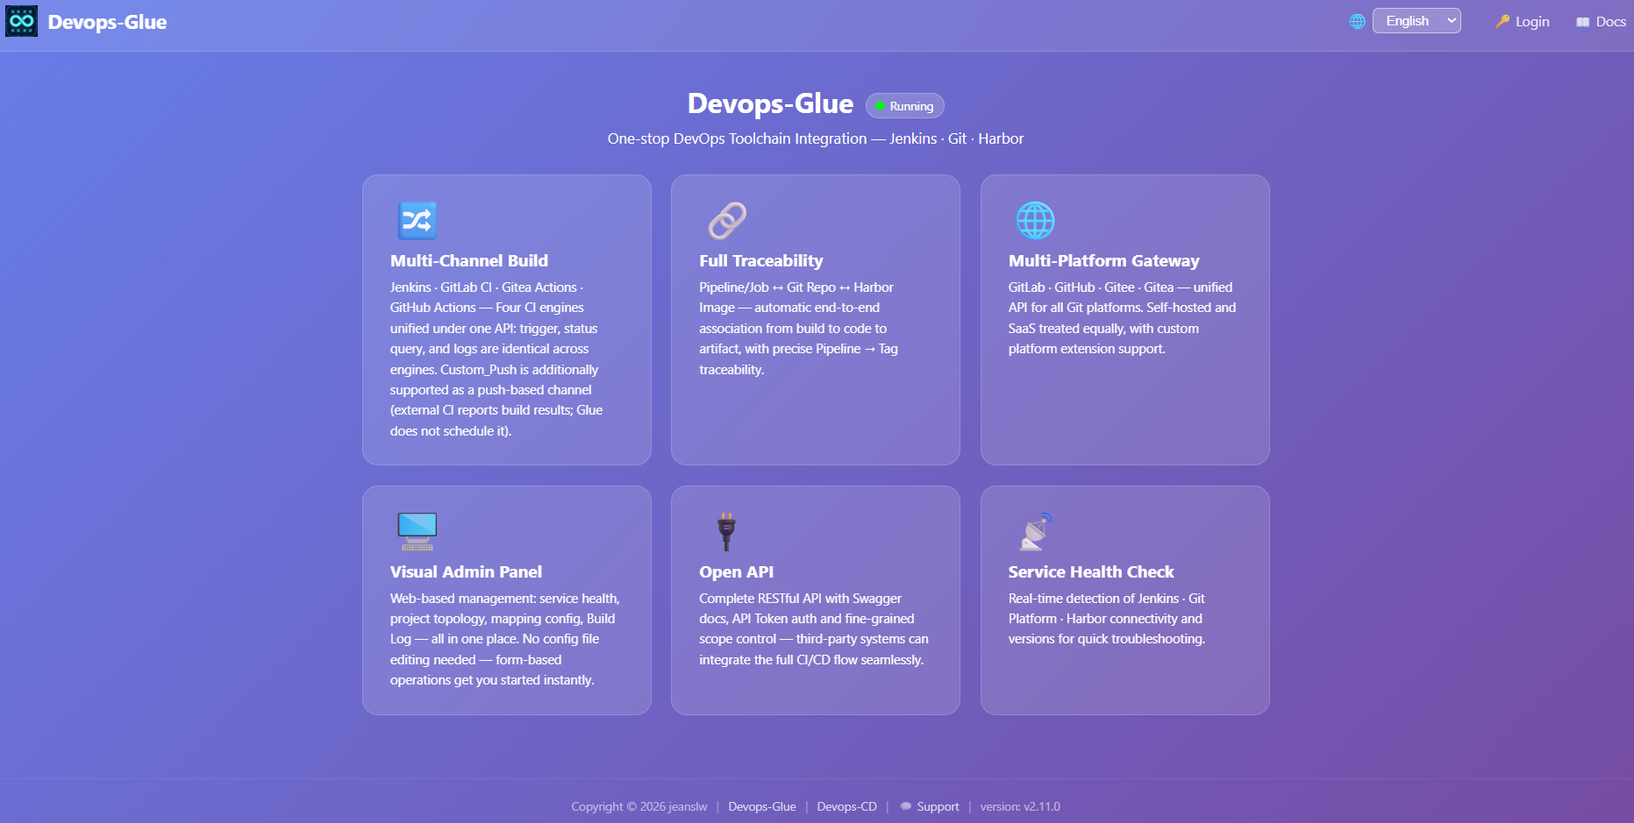
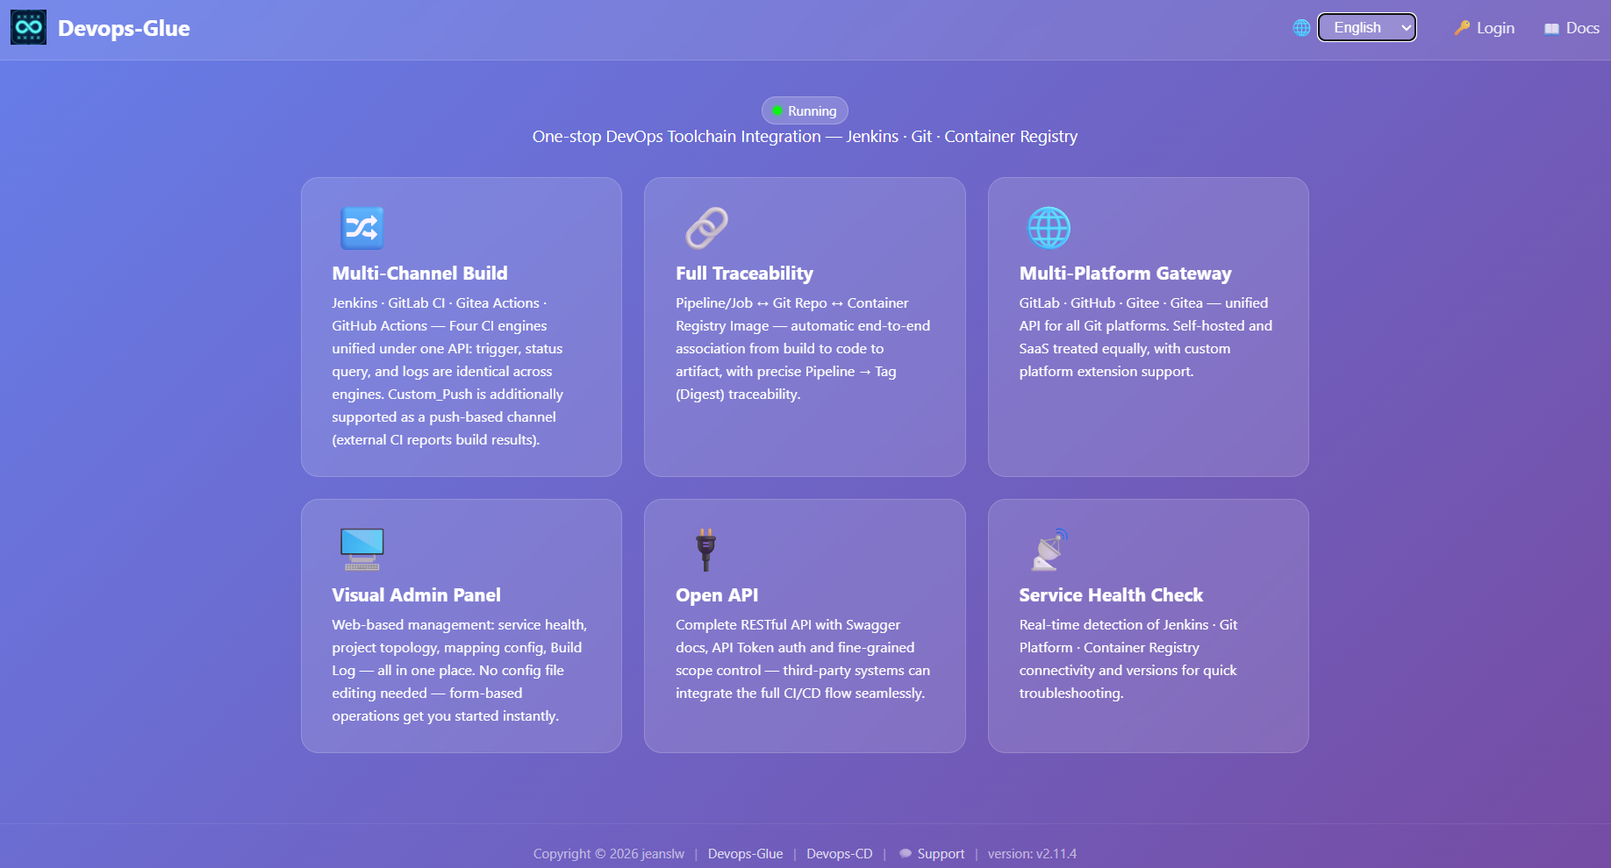
v2.11.4: 镜像摘要统一以仓库为准，ci_build_tag_cache 新增 status 列并入迁移，落地页与文档文案收口

diff --git a/templates/index.html b/templates/index.html
@@ -3,11 +3,11 @@
 <head>
     <meta charset="UTF-8">
     <meta name="viewport" content="width=device-width, initial-scale=1.0">
-    <meta name="description" content="Devops-Glue：Jenkins · Git · Harbor 一站式 DevOps 工具链集成平台。多链路构建、全链路映射、多平台统一接入、开放 API、服务健康自检。">
+    <meta name="description" content="Devops-Glue：Jenkins · Git · Container Registry 一站式 DevOps 工具链集成平台。多链路构建、全链路映射、多平台统一接入、开放 API、服务健康自检。">
     <meta name="author" content="jeanslw">
     <meta property="og:type" content="article">
     <meta property="og:title" content="Devops-Glue">
-    <meta property="og:description" content="Jenkins · Git · Harbor 一站式 DevOps 工具链集成平台">
+    <meta property="og:description" content="Jenkins · Git · Container Registry 一站式 DevOps 工具链集成平台">
     <title data-i18n="index.title">Devops-Glue</title>
     <link rel="icon" href="/favicon.ico" type="image/x-icon">
     <!-- ?v={{APP_VERSION}}：由 / 路由在服务端替换为当前版本号（同 admin.html，防旧 CSS/JS 被强缓存） -->
@@ -128,10 +128,9 @@
 
     <div class="hero">
         <div class="hero-title">
-            <h1 data-i18n="index.title">Devops-Glue</h1>
             <a href="/admin" class="status-badge" data-dg-home><span class="status-dot" id="status-dot"></span><span id="status-text">运行中</span></a>
         </div>
-        <p data-i18n="index.subtitle">Jenkins · Git · Harbor 一站式 DevOps 工具链集成平台</p>
+        <p data-i18n="index.subtitle">Jenkins · Git · Container Registry 一站式 DevOps 工具链集成平台</p>
     </div>
 
     <div class="features">
@@ -145,7 +144,7 @@
         <div class="feat-card">
             <div class="feat-icon">🔗</div>
             <h2 data-i18n="index.feat_full_trace_title">全链路映射</h2>
-            <p data-i18n="index.feat_full_trace_desc">Pipeline/Job ↔ Git 仓库 ↔ Harbor 镜像，构建→代码→制品完整链路自动关联，Pipeline → Tag 精准追溯。</p>
+            <p data-i18n="index.feat_full_trace_desc">Pipeline/Job ↔ Git 仓库 ↔ Container Registry镜像，构建→代码→制品完整链路自动关联，Pipeline → Tag(Digest) 精准追溯。</p>
         </div>
         <!-- 3 -->
         <div class="feat-card">
@@ -169,7 +168,7 @@
         <div class="feat-card">
             <div class="feat-icon">📡</div>
             <h2 data-i18n="index.feat_health_title">服务健康自检</h2>
-            <p data-i18n="index.feat_health_desc">实时检测 Jenkins · Git 平台 · Harbor 连通性与版本号，故障快速定位，状态一目了然。</p>
+            <p data-i18n="index.feat_health_desc">实时检测 Jenkins · Git 平台 · Container Registry 连通性与版本号，故障快速定位，状态一目了然。</p>
         </div>
     </div>
 

diff --git a/public/assets/modules/records.js b/public/assets/modules/records.js
@@ -215,7 +215,7 @@ export async function resolvePullTag(idx, force) {
         const res = await fetch('/api/build/' + encodePath(currentPullPath) + '/pipelines/' + runId + '/resolve-tag', {
             method: 'POST',
             headers: Object.assign({'Content-Type':'application/json'}, authHeaders()),
-            body: JSON.stringify({ sha: r.sha || '', force: !!force })
+            body: JSON.stringify({ sha: r.sha || '', force: !!force, status: r.status || '' })
         });
         if (handle401(res)) return;
         if (!res.ok) throw new Error(await readErrorMessage(res));
@@ -305,7 +305,7 @@ export function closePullLog() {
 export async function loadPushRecords() {
     const tbody = document.getElementById('push-records-tbody');
     if (!tbody) return;
-    tbody.innerHTML = '<tr><td colspan="9" style="text-align:center;color:#9ca3af;">' + __.t('common.loading') + '</td></tr>';
+    tbody.innerHTML = '<tr><td colspan="10" style="text-align:center;color:#9ca3af;">' + __.t('common.loading') + '</td></tr>';
     try {
         const res = await fetch('/api/admin/custom_builds?page=' + pushPage + '&per_page=20', { headers: authHeaders() });
         if (handle401(res)) return;
@@ -318,7 +318,7 @@ export async function loadPushRecords() {
 
         const pagination = document.getElementById('push-pagination');
         if (!records.length) {
-            tbody.innerHTML = '<tr><td colspan="9" style="text-align:center;color:#9ca3af;">' + __.t('push.no_records') + '</td></tr>';
+            tbody.innerHTML = '<tr><td colspan="10" style="text-align:center;color:#9ca3af;">' + __.t('push.no_records') + '</td></tr>';
             if (pagination) pagination.innerHTML = '';
             return;
         }
@@ -349,6 +349,7 @@ export async function loadPushRecords() {
                 + '<td>' + esc(String(r.pipeline_iid)) + '</td>'
                 + '<td>' + statusBadge(r.status) + '</td>'
                 + '<td>' + (r.tag ? '<code style="font-size:11px;">' + esc(r.tag) + '</code>' : '—') + '</td>'
+                + '<td>' + (r.digest ? '<code style="font-size:11px;word-break:break-all;">' + esc(r.digest) + '</code>' : '—') + '</td>'
                 + '<td>' + shaCell + '</td>'
                 + '<td style="max-width:260px;overflow:hidden;text-overflow:ellipsis;white-space:nowrap;" title="' + (vars ? esc(vars) : '') + '">' + (vars ? esc(vars) : '—') + '</td>'
                 + '<td>' + logCell + '</td>'
@@ -367,7 +368,7 @@ export async function loadPushRecords() {
             pagination.innerHTML = pag;
         }
     } catch (e) {
-        tbody.innerHTML = '<tr><td colspan="9" style="text-align:center;color:#dc2626;">' + __.t('js.network_error') + ': ' + esc(e.message) + '</td></tr>';
+        tbody.innerHTML = '<tr><td colspan="10" style="text-align:center;color:#dc2626;">' + __.t('js.network_error') + ': ' + esc(e.message) + '</td></tr>';
     }
 }
 

diff --git a/templates/admin.html b/templates/admin.html
@@ -595,6 +595,7 @@
                                 <th data-i18n="push.pipeline_iid">pipeline_iid</th>
                                 <th data-i18n="push.status">status</th>
                                 <th data-i18n="push.tag">tag</th>
+                                <th data-i18n="push.digest">digest</th>
                                 <th data-i18n="push.sha">sha</th>
                                 <th data-i18n="push.variables_json">variables_json</th>
                                 <th data-i18n="push.log_url">log_url</th>

diff --git a/src/Controller/Build/BuildReportController.php b/src/Controller/Build/BuildReportController.php
@@ -191,6 +191,7 @@ final class BuildReportController extends BaseBuildController
         }
 
         $registryRepo = '';
+        $finalDigest = '';
         if ($status === 'success') {
             $row = $this->mapping->resolveMapRow($path);
             if ($row === null) {
@@ -206,6 +207,10 @@ final class BuildReportController extends BaseBuildController
             if (($verifyErr = $this->verifyRegistryTag($registryRepo, $tag)) !== null) {
                 return $this->jsonError($response, $verifyErr, 400);
             }
+            // 以仓库当前 digest 为准：未上报则解析，已上报则与仓库比对（不一致以仓库为准）
+            $repoDigest = $this->resolveRegistryDigest($registryRepo, $tag);
+            $bodyDigest = trim((string) ($body['digest'] ?? $body['image_digest'] ?? ''));
+            $finalDigest = $repoDigest !== '' ? $repoDigest : $bodyDigest;
         }
 
         $txStarted = false;
@@ -224,7 +229,8 @@ final class BuildReportController extends BaseBuildController
                         $tag,
                         $registryRepo,
                         'success',
-                        $finishedAt
+                        $finishedAt,
+                        $finalDigest
                     )
                 ) {
                     if ($txStarted) {
@@ -291,6 +297,38 @@ final class BuildReportController extends BaseBuildController
     }
 
     /**
+     * 从镜像仓库解析指定 tag 当前的 digest（以仓库为准）。失败或不可达返回空串。
+     */
+    private function resolveRegistryDigest(string $repo, string $tag): string
+    {
+        if (!$this->registryProvider || $tag === '') {
+            return '';
+        }
+        try {
+            $details = $this->registryProvider->getTagDetails($repo);
+            if (isset($details['error'])) {
+                return '';
+            }
+            foreach ($details as $row) {
+                if (!is_array($row)) {
+                    continue;
+                }
+                $name = (string) ($row['name'] ?? $row['tag'] ?? '');
+                if ($name !== $tag) {
+                    continue;
+                }
+                $d = trim((string) ($row['digest'] ?? ''));
+                if ($d !== '') {
+                    return $d;
+                }
+            }
+        } catch (\Throwable $e) {
+            \App\Helper\Log::exception($e);
+        }
+        return '';
+    }
+
+    /**
      * 把仓库提供方错误数组翻译成对用户明确的错误描述（据 http_code 区分不可达/认证失败/资源不存在）。
      *
      * @param array{http_code?: int, error?: string} $err
@@ -322,7 +360,8 @@ final class BuildReportController extends BaseBuildController
         string $registryRepo = '',
         string $status = '',
         ?string $sourceUpdatedAt = null,
-        ?string $createdAt = null
+        ?string $createdAt = null,
+        ?string $digest = null
     ): bool {
         if (empty($projectKey) || $identity->pipelineIid <= 0 || empty($tag) || empty($registryRepo)) {
             return false;
@@ -339,7 +378,8 @@ final class BuildReportController extends BaseBuildController
                 $registryRepo,
                 $status,
                 $sourceUpdatedAt,
-                $createdAt
+                $createdAt,
+                $digest
             );
             if (!$artifact['written'] && !$artifact['ignored']) {
                 return false;

diff --git a/lang/en/messages.php b/lang/en/messages.php
@@ -186,6 +186,7 @@ return [
     'push.web_url'         => 'Web URL',
     'push.finished_at'     => 'Finished At',
     'push.tag'             => 'Image Tag',
+    'push.digest'          => 'Image Digest',
     'push.no_records'      => 'No push records yet',
     'push.view_log'        => 'View log',
     'push.load_failed'     => 'Failed to load push records',
@@ -398,14 +399,14 @@ return [
     'index.running'   => 'Running',
     'index.degraded'  => 'Degraded',
     'index.unavailable' => 'Unavailable',
-    'index.subtitle'  => 'One-stop DevOps Toolchain Integration — Jenkins · Git · Harbor',
+    'index.subtitle'  => 'One-stop DevOps Toolchain Integration — Jenkins · Git · Container Registry',
     'index.admin'     => 'Login',
     'index.docs'      => 'Docs',
     'index.support'   => 'Support',
     'index.feat_multi_build_title'   => 'Multi-Channel Build',
-    'index.feat_multi_build_desc'    => 'Jenkins · GitLab CI · Gitea Actions · GitHub Actions — Four CI engines unified under one API: trigger, status query, and logs are identical across engines. Custom_Push is additionally supported as a push-based channel (external CI reports build results; Glue does not schedule it).',
+    'index.feat_multi_build_desc'    => 'Jenkins · GitLab CI · Gitea Actions · GitHub Actions — Four CI engines unified under one API: trigger, status query, and logs are identical across engines. Custom_Push is additionally supported as a push-based channel (external CI reports build results).',
     'index.feat_full_trace_title'   => 'Full Traceability',
-    'index.feat_full_trace_desc'    => 'Pipeline/Job ↔ Git Repo ↔ Harbor Image — automatic end-to-end association from build to code to artifact, with precise Pipeline → Tag traceability.',
+    'index.feat_full_trace_desc'    => 'Pipeline/Job ↔ Git Repo ↔ Container Registry Image — automatic end-to-end association from build to code to artifact, with precise Pipeline → Tag (Digest) traceability.',
     'index.feat_multi_platform_title' => 'Multi-Platform Gateway',
     'index.feat_multi_platform_desc'  => 'GitLab · GitHub · Gitee · Gitea — unified API for all Git platforms. Self-hosted and SaaS treated equally, with custom platform extension support.',
     'index.feat_dashboard_title'    => 'Visual Admin Panel',
@@ -413,7 +414,7 @@ return [
     'index.feat_api_title'          => 'Open API',
     'index.feat_api_desc'           => 'Complete RESTful API with Swagger docs, API Token auth and fine-grained scope control — third-party systems can integrate the full CI/CD flow seamlessly.',
     'index.feat_health_title'       => 'Service Health Check',
-    'index.feat_health_desc'        => 'Real-time detection of Jenkins · Git Platform · Harbor connectivity and versions for quick troubleshooting.',
+    'index.feat_health_desc'        => 'Real-time detection of Jenkins · Git Platform · Container Registry connectivity and versions for quick troubleshooting.',
     'index.footer' => 'Copyright © 2026 jeanslw | Devops-Glue',
 
     // ── Form Labels ──

diff --git a/lang/zh_CN/messages.php b/lang/zh_CN/messages.php
@@ -186,6 +186,7 @@ return [
     'push.web_url'         => '构建链接',
     'push.finished_at'     => '完成时间',
     'push.tag'             => '镜像Tag',
+    'push.digest'          => '镜像摘要',
     'push.no_records'      => '暂无 push 记录',
     'push.view_log'        => '查看日志',
     'push.load_failed'     => '加载 push 记录失败',
@@ -398,14 +399,14 @@ return [
     'index.running'   => '运行中',
     'index.degraded'  => '降级',
     'index.unavailable' => '不可用',
-    'index.subtitle'  => 'Jenkins · Git · Harbor 一站式 DevOps 工具链集成平台',
+    'index.subtitle'  => 'Jenkins · Git · Container Registry 一站式 DevOps 工具链集成平台',
     'index.admin'     => '登录',
     'index.docs'      => '文档',
     'index.support'   => '技术支持',
     'index.feat_multi_build_title'   => '多链路构建',
-    'index.feat_multi_build_desc'    => 'Jenkins · GitLab CI · Gitea Actions · GitHub Actions 四种 CI 统一接入，统一 API 入口，构建触发、状态查询、日志查看完全一致；另支持 Custom_Push 推送式接入（由外部 CI 主动上报构建结果，Glue 不主动调度）。',
+    'index.feat_multi_build_desc'    => 'Jenkins · GitLab CI · Gitea Actions · GitHub Actions 四种 CI 统一接入，统一 API 入口，构建触发、状态查询、日志查看完全一致；另支持 Custom_Push 推送式接入（由外部 CI 主动上报构建结果）。',
     'index.feat_full_trace_title'   => '全链路映射',
-    'index.feat_full_trace_desc'    => 'Pipeline/Job ↔ Git 仓库 ↔ Harbor 镜像，构建→代码→制品完整链路自动关联，Pipeline → Tag 精准追溯。',
+    'index.feat_full_trace_desc'    => 'Pipeline/Job ↔ Git 仓库 ↔ Container Registry镜像，构建→代码→制品完整链路自动关联，Pipeline → Tag(Digest) 精准追溯。',
     'index.feat_multi_platform_title' => '多平台统一接入',
     'index.feat_multi_platform_desc'  => 'GitLab · GitHub · Gitee · Gitea 统一 API 接口，自建与 SaaS 无差别对接，支持自定义平台扩展。',
     'index.feat_dashboard_title'    => '可视化管理后台',
@@ -413,7 +414,7 @@ return [
     'index.feat_api_title'          => '开放 API',
     'index.feat_api_desc'           => '提供完整 RESTful API 与 Swagger 在线文档，支持 API Token 鉴权和细粒度 scope 权限，第三方系统与 CI/CD 流水线无缝对接。',
     'index.feat_health_title'       => '服务健康自检',
-    'index.feat_health_desc'        => '实时检测 Jenkins · Git 平台 · Harbor 连通性与版本号，故障快速定位，状态一目了然。',
+    'index.feat_health_desc'        => '实时检测 Jenkins · Git 平台 · Container Registry 连通性与版本号，故障快速定位，状态一目了然。',
     'index.footer' => 'Copyright © 2026 jeanslw | Devops-Glue',
 
     // ── 表单标签 ──

diff --git a/src/Service/PipelineTagService.php b/src/Service/PipelineTagService.php
@@ -130,9 +130,10 @@ class PipelineTagService
 
         try {
             $rows = $this->pdo->query(
-                'SELECT project_key, provider, project_id, pipeline_id, tag, repository, digest '
+                'SELECT project_key, provider, project_id, pipeline_id, tag, repository, digest, status '
                 . 'FROM ' . AppConfig::TABLE_BUILD_TAG_CACHE
                 . " WHERE source = 'log' AND tag != '' AND provider != '' AND project_id != '' AND repository != ''"
+                . " AND (status = 'success' OR status = '')"
             )->fetchAll();
         } catch (\Throwable $e) {
             Log::exception($e);
@@ -168,12 +169,6 @@ class PipelineTagService
                 continue;
             }
 
-            $existing = $artifactSvc->find($identity);
-            if ($existing && trim((string) ($existing['tag'] ?? '')) !== '') {
-                $stat['skipped']++;
-                continue;
-            }
-
             if (!array_key_exists($repo, $tagCache)) {
                 try {
                     $tags = $this->registry->getTags($repo);
@@ -194,7 +189,20 @@ class PipelineTagService
                 continue;
             }
 
-            $digest = $cacheDigest !== '' ? $cacheDigest : $this->resolveTagDigest($repo, $tag, $detailCache);
+            // 以仓库当前 digest 为准（解析不到才回退日志缓存的 digest）
+            $repoDigest = $this->resolveTagDigest($repo, $tag, $detailCache);
+            $digest = $repoDigest !== '' ? $repoDigest : $cacheDigest;
+
+            // 已有相同 tag 与 digest 才跳过；tag 缺失或 digest 不同（同名 tag 内容已变）则更新
+            $existing = $artifactSvc->find($identity);
+            if ($existing) {
+                $existingTag = trim((string) ($existing['tag'] ?? ''));
+                $existingDigest = trim((string) ($existing['digest'] ?? ''));
+                if ($existingTag !== '' && $existingDigest === $digest) {
+                    $stat['skipped']++;
+                    continue;
+                }
+            }
 
             try {
                 $res = $artifactSvc->record($identity, $projectKey, $tag, $repo, '', null, null, $digest);

diff --git a/cli/migrate.php b/cli/migrate.php
@@ -116,7 +116,7 @@ function ciBuildTagCacheMigrateKey(\PDO $pdo, string $driver): void
     }
     // SQLite：重建表（SQLite 不便直接 DROP 命名 UNIQUE 约束），保留每 (provider, project_id, pipeline_id) 最新一行
     // 注意：不写 created_at/updated_at 的 DEFAULT(datetime(...))，旧版 SQLite 不支持非常量默认值；
-    // 下面 SELECT 会从旧表搬运这两列的值，重建后不影响既有数据。
+    // 下面 SELECT 会从旧表搬运这两列的值，重建后不影响既有数据。status 列需一并保留（migrateNow 已补列，重建不能丢）。
     $pdo->exec("CREATE TABLE `{$table}_new` (
         id INTEGER PRIMARY KEY AUTOINCREMENT,
         project_key TEXT DEFAULT '',
@@ -128,12 +128,13 @@ function ciBuildTagCacheMigrateKey(\PDO $pdo, string $driver): void
         repository TEXT DEFAULT '',
         digest TEXT DEFAULT NULL,
         source TEXT DEFAULT 'log',
+        status TEXT DEFAULT '',
         created_at TEXT,
         updated_at TEXT,
         UNIQUE(provider, project_id, pipeline_id)
     )");
-    $pdo->exec("INSERT INTO `{$table}_new` (id, project_key, provider, project_id, sha, pipeline_id, tag, repository, digest, source, created_at, updated_at)
-        SELECT t.id, t.project_key, t.provider, t.project_id, t.sha, t.pipeline_id, t.tag, t.repository, t.digest, t.source, t.created_at, t.updated_at
+    $pdo->exec("INSERT INTO `{$table}_new` (id, project_key, provider, project_id, sha, pipeline_id, tag, repository, digest, source, status, created_at, updated_at)
+        SELECT t.id, t.project_key, t.provider, t.project_id, t.sha, t.pipeline_id, t.tag, t.repository, t.digest, t.source, t.status, t.created_at, t.updated_at
         FROM `{$table}` t
         WHERE t.id = (SELECT MAX(id) FROM `{$table}` WHERE provider = t.provider AND project_id = t.project_id AND pipeline_id = t.pipeline_id)");
     $pdo->exec("DROP TABLE `{$table}`");

diff --git a/src/Service/BuildTagCacheRepository.php b/src/Service/BuildTagCacheRepository.php
@@ -64,14 +64,14 @@ class BuildTagCacheRepository
         ];
     }
 
-    /** upsert 一条 sha→tag 缓存（含日志提取的 digest）。 */
-    public function upsert(string $projectKey, string $provider, string $projectId, string $sha, string $pipelineId, string $tag, string $repository, string $source, string $digest = ''): void
+    /** upsert 一条 sha→tag 缓存（含日志提取的 digest 与 CI 状态，回填时据此过滤成功构建）。 */
+    public function upsert(string $projectKey, string $provider, string $projectId, string $sha, string $pipelineId, string $tag, string $repository, string $source, string $digest = '', string $status = ''): void
     {
         $sql = Database::sqlUpsert(
             AppConfig::TABLE_BUILD_TAG_CACHE,
-            'project_key, provider, project_id, sha, pipeline_id, tag, repository, source, digest, updated_at',
-            '?, ?, ?, ?, ?, ?, ?, ?, ?, ' . Database::sqlNow()
+            'project_key, provider, project_id, sha, pipeline_id, tag, repository, source, digest, status, updated_at',
+            '?, ?, ?, ?, ?, ?, ?, ?, ?, ?, ' . Database::sqlNow()
         );
-        $this->pdo->prepare($sql)->execute([$projectKey, $provider, $projectId, $sha, $pipelineId, $tag, $repository, $source, $digest]);
+        $this->pdo->prepare($sql)->execute([$projectKey, $provider, $projectId, $sha, $pipelineId, $tag, $repository, $source, $digest, $status]);
     }
 }

diff --git a/tests/Unit/RegistrySyncServiceTest.php b/tests/Unit/RegistrySyncServiceTest.php
@@ -454,7 +454,7 @@ class RegistrySyncServiceTest extends TestCase
         $this->assertSame($digest, $this->artifacts()[0]['digest']);
     }
 
-    public function testBodyDigestTakesPrecedenceOverRegistry(): void
+    public function testRegistryDigestTakesPrecedenceOverBody(): void
     {
         $bodyDigest = 'sha256:3333333333333333333333333333333333333333333333333333333333333333';
         $regDigest  = 'sha256:4444444444444444444444444444444444444444444444444444444444444444';
@@ -468,8 +468,9 @@ class RegistrySyncServiceTest extends TestCase
             'pipeline_iid' => 10,
         ], false, 'registry-sync');
 
-        $this->assertSame($bodyDigest, $result['digest']);
-        $this->assertSame($bodyDigest, $this->artifacts()[0]['digest']);
+        // 以仓库当前 digest 为准：即便 body 携带 digest，也以仓库解析结果写入
+        $this->assertSame($regDigest, $result['digest']);
+        $this->assertSame($regDigest, $this->artifacts()[0]['digest']);
     }
 
     public function testTagNotVerifiedDoesNotWriteArtifactOrDigest(): void

diff --git a/src/Service/CustomBuildRepository.php b/src/Service/CustomBuildRepository.php
@@ -26,7 +26,7 @@ class CustomBuildRepository
 
         $stmt = $this->pdo->prepare(
             'SELECT b.job_name, b.pipeline_iid, b.status, b.sha, b.variables_json, b.log_url, b.web_url, b.finished_at,
-                    t.tag
+                    t.tag, t.digest
              FROM ' . AppConfig::TABLE_CUSTOM_BUILDS . ' b
              LEFT JOIN ' . AppConfig::TABLE_PIPELINE_ARTIFACTS . ' t
                ON t.project_key = b.job_name AND t.pipeline_iid = b.pipeline_iid AND t.provider = ?
@@ -40,6 +40,7 @@ class CustomBuildRepository
                 'pipeline_iid'   => (int) ($r['pipeline_iid'] ?? 0),
                 'status'         => $r['status'] ?? '',
                 'tag'            => $r['tag'] ?? '',
+                'digest'         => $r['digest'] ?? '',
                 'sha'            => $r['sha'] ?? '',
                 'variables_json' => $r['variables_json'] ?? '',
                 'log_url'        => $r['log_url'] ?? '',

diff --git a/src/Service/SchemaMigrator.php b/src/Service/SchemaMigrator.php
@@ -166,6 +166,7 @@ class SchemaMigrator
             repository {$VARCHAR} DEFAULT '',
             digest {$VARCHAR} DEFAULT NULL,
             source {$VARCHAR} DEFAULT 'log',
+            status {$VARCHAR} DEFAULT '',
             created_at {$TS_TYPE} DEFAULT ({$NOW}),
             updated_at {$TS_TYPE} DEFAULT ({$NOW}),
             UNIQUE(provider, project_id, pipeline_id)
@@ -536,6 +537,7 @@ class SchemaMigrator
                 'project_id' => "{$VARCHAR} DEFAULT ''",
                 'repository' => "{$VARCHAR} DEFAULT ''",
                 'digest'     => "{$VARCHAR} DEFAULT NULL",
+                'status'     => "{$VARCHAR} DEFAULT ''",
             ],
             \App\Config\AppConfig::TABLE_PERMISSIONS => [
                 'parent_key' => $isMySQL ? 'VARCHAR(128)' : 'TEXT',
